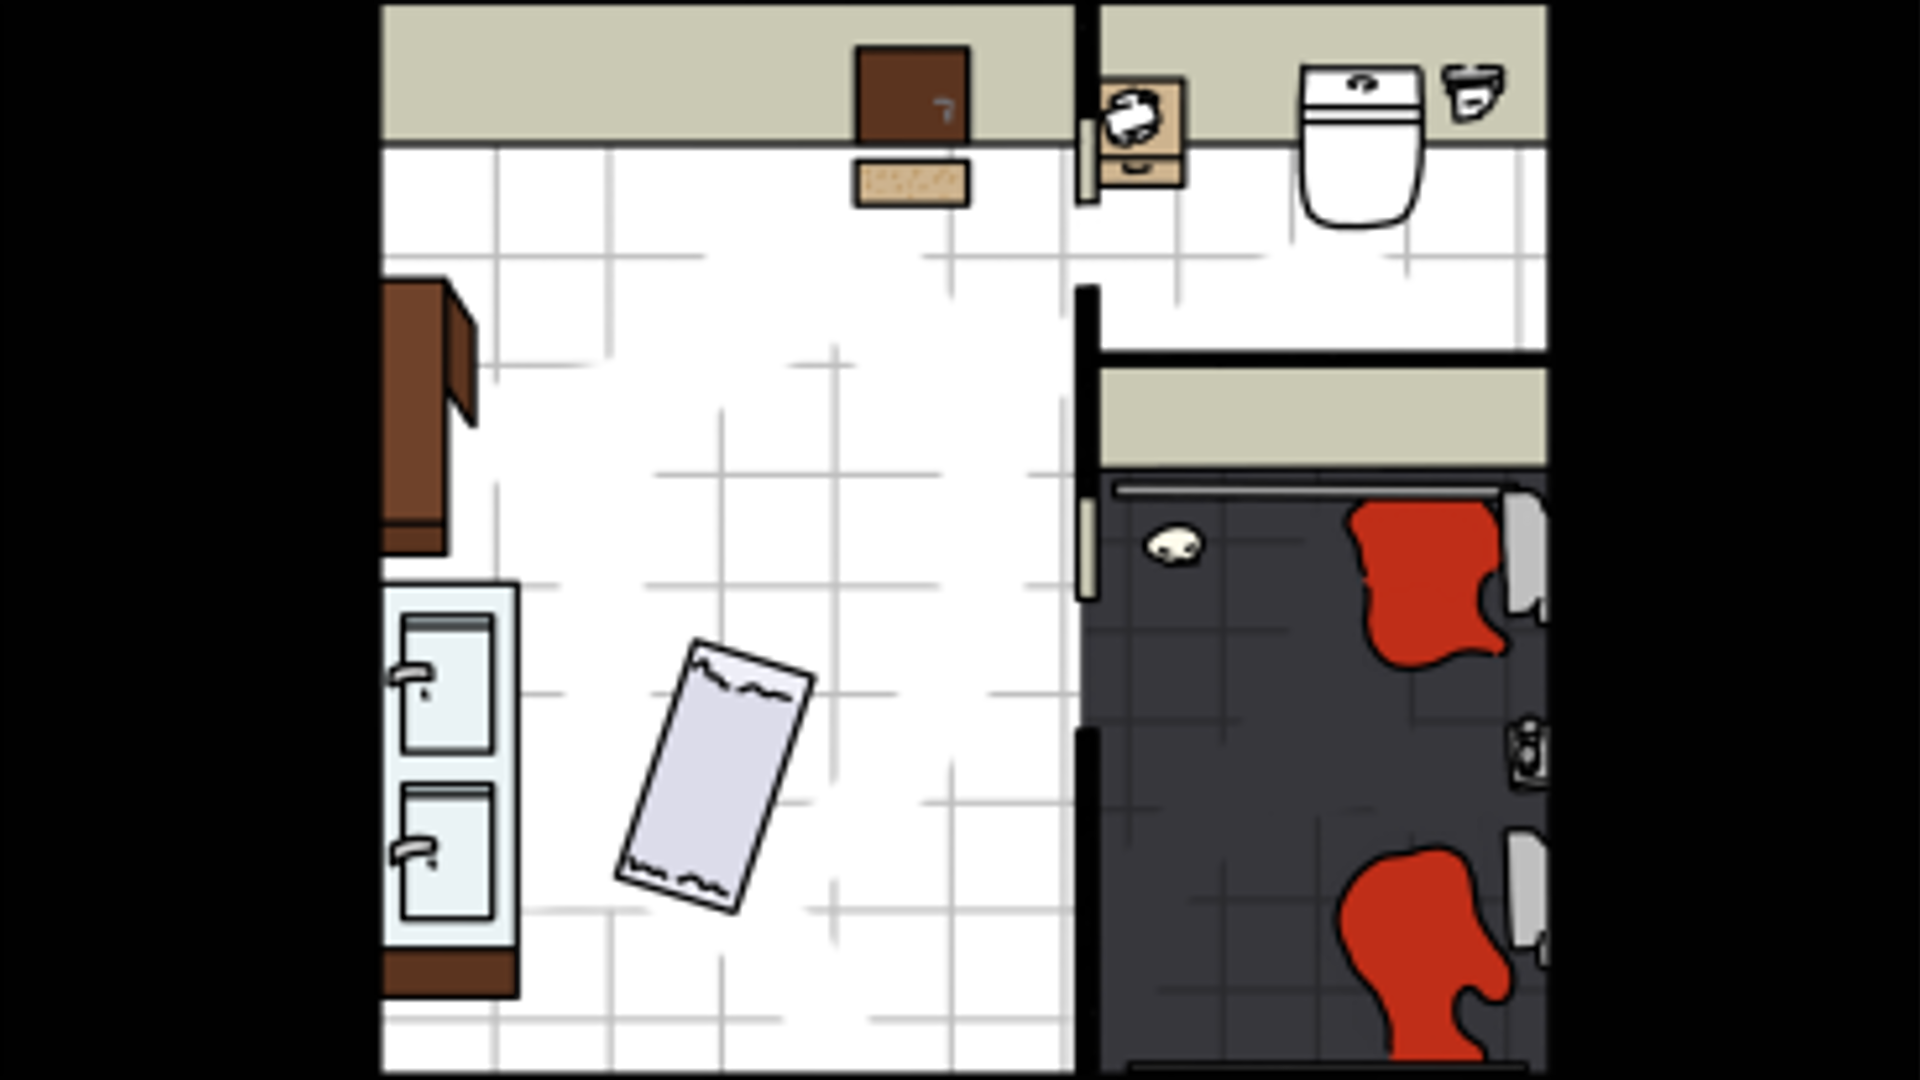
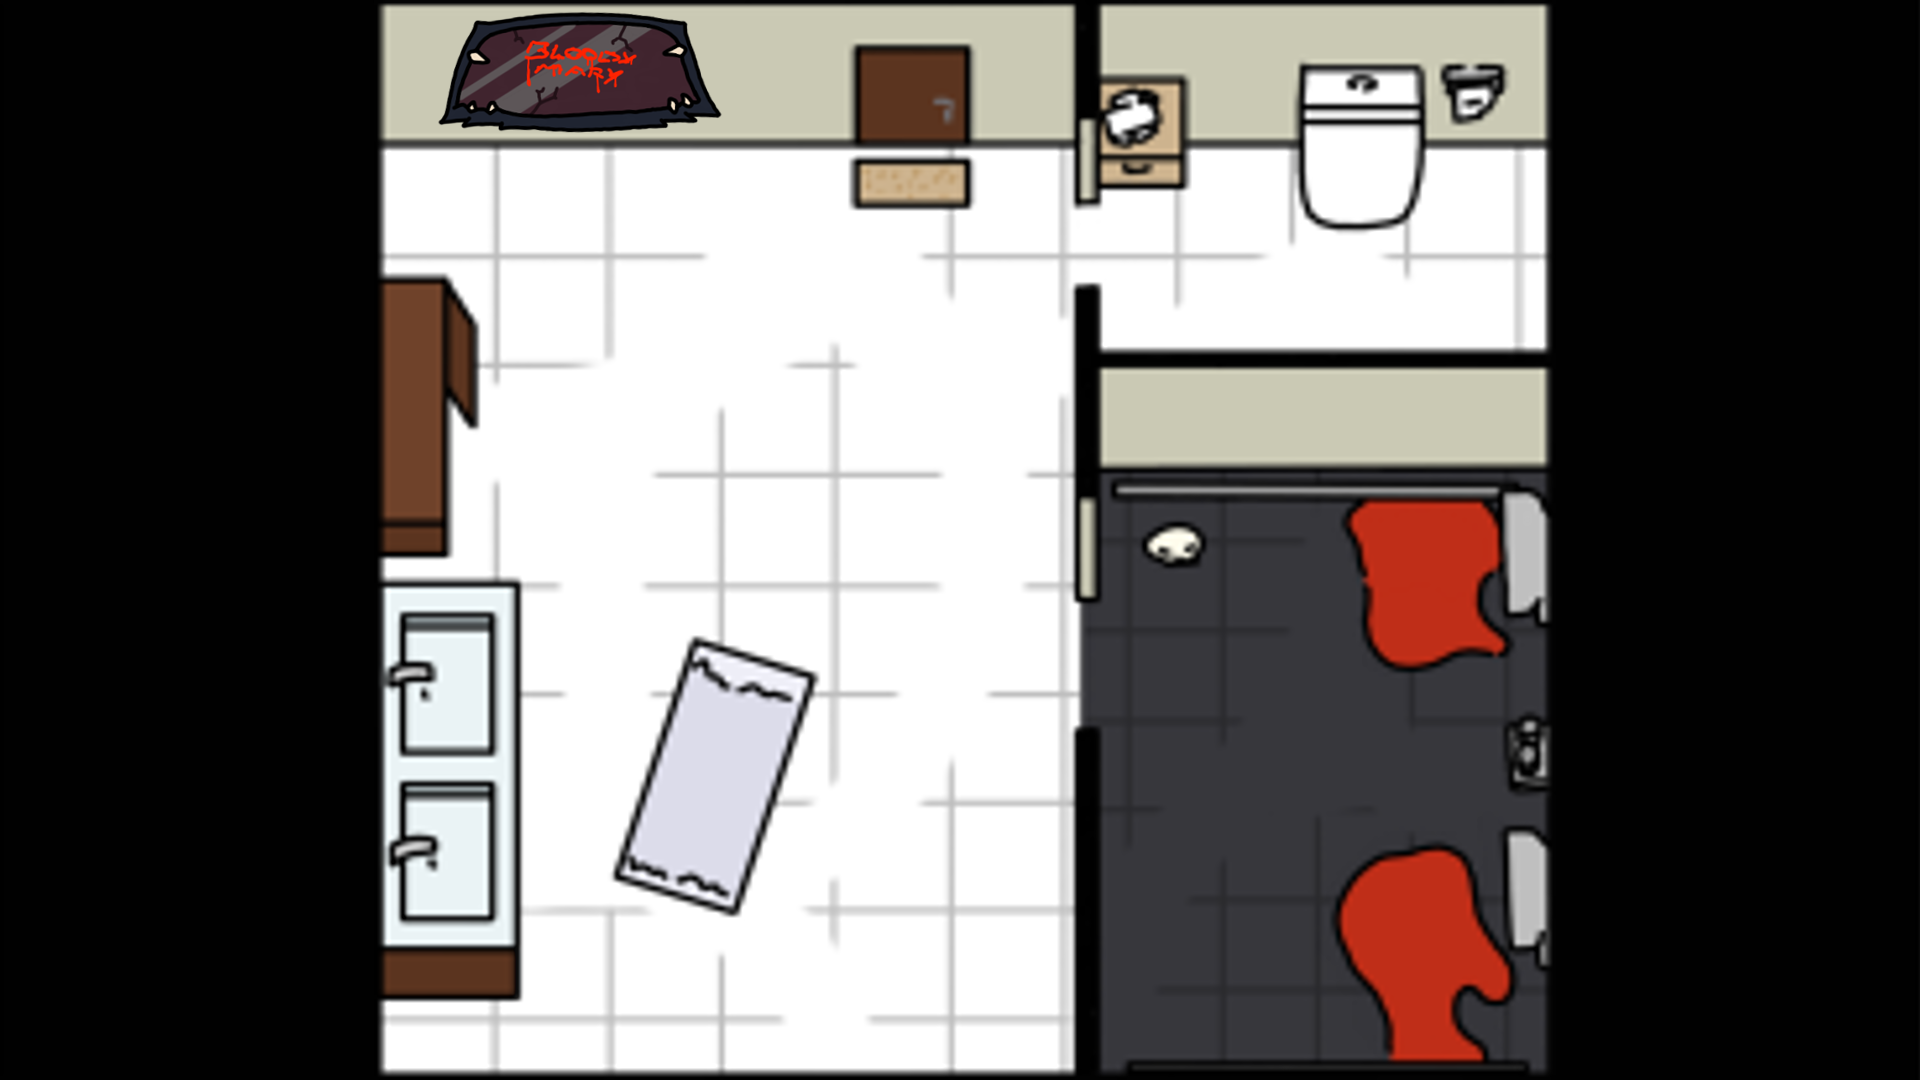
mirrorteleport

Changed region(s): [[0.2188, 0.0, 0.375, 0.1222]]

diff --git a/src/js/ui/mirror.js b/src/js/ui/mirror.js
@@ -1,0 +1,27 @@
+import { Actor, Vector, Engine, Scene } from "excalibur"
+import * as ex from 'excalibur'
+import {Resources} from "../resources.js"
+import { mainCharacter } from "../mainCharacter.js"
+
+export class Mirror extends Actor {
+
+game
+
+    constructor(x,y,width,height, game) {
+        super({width:Resources.Barrier.width, height:Resources.Barrier.height})
+        this.graphics.use(Resources.Barrier.toSprite())
+        this.pos = new Vector(x,y)
+        this.scale = new Vector(width/512, height/512)
+        this.graphics.opacity = 0
+        this.game = game
+    }
+
+    onInitialize(engine,) {
+        this.on('collisionstart', (event) => {
+            if (event.other instanceof mainCharacter) {
+                this.game.goToScene('mirrorroom')
+                }
+            })
+        }
+
+}

diff --git a/src/js/rooms/bathroom.js b/src/js/rooms/bathroom.js
@@ -6,7 +6,7 @@ import { Resources } from '../resources.js'
 import { Barrier } from '../ui/barrier.js'
 import { Tp } from '../ui/tp.js'
 import { Licht } from '../props/licht.js'
-import { Healwater } from '../props/healwater.js'
+import { Mirror } from '../ui/mirror.js'
 
 import { roomBack } from './roomBack.js'
 import { room } from './room.js'
@@ -17,6 +17,8 @@ export class bathroom extends room {
     tpx = 767
     tpy = 80
     spawnBarriers() {
+        const mirror = new Mirror(465,80,200,30, this.game)
+        this.add(mirror)
         const up = new Barrier(767,80,950,10)
         this.add(up)
         const left = new Barrier(300,510,10,860)

diff --git a/src/js/resources.js b/src/js/resources.js
@@ -58,6 +58,7 @@ import vaas from "../images/props/vaas.png"
 import shelf from "../images/props/shelf.png"
 import fire from "../images/props/fire.png"
 import treasure from "../images/props/schatkist.png"
+import mirror from "../images/props/mirror.png"
 
 // music
 import backgroundMusic from '../sfx/8-bit loop background music.mp3'
@@ -203,6 +204,7 @@ const Resources = {
     shelf: new ImageSource(shelf),
     Fire: new ImageSource(fire),
     Treasure: new ImageSource(treasure),
+    Mirror: new ImageSource(mirror),
 
     // music
     gameMusic: new Sound(backgroundMusic),
